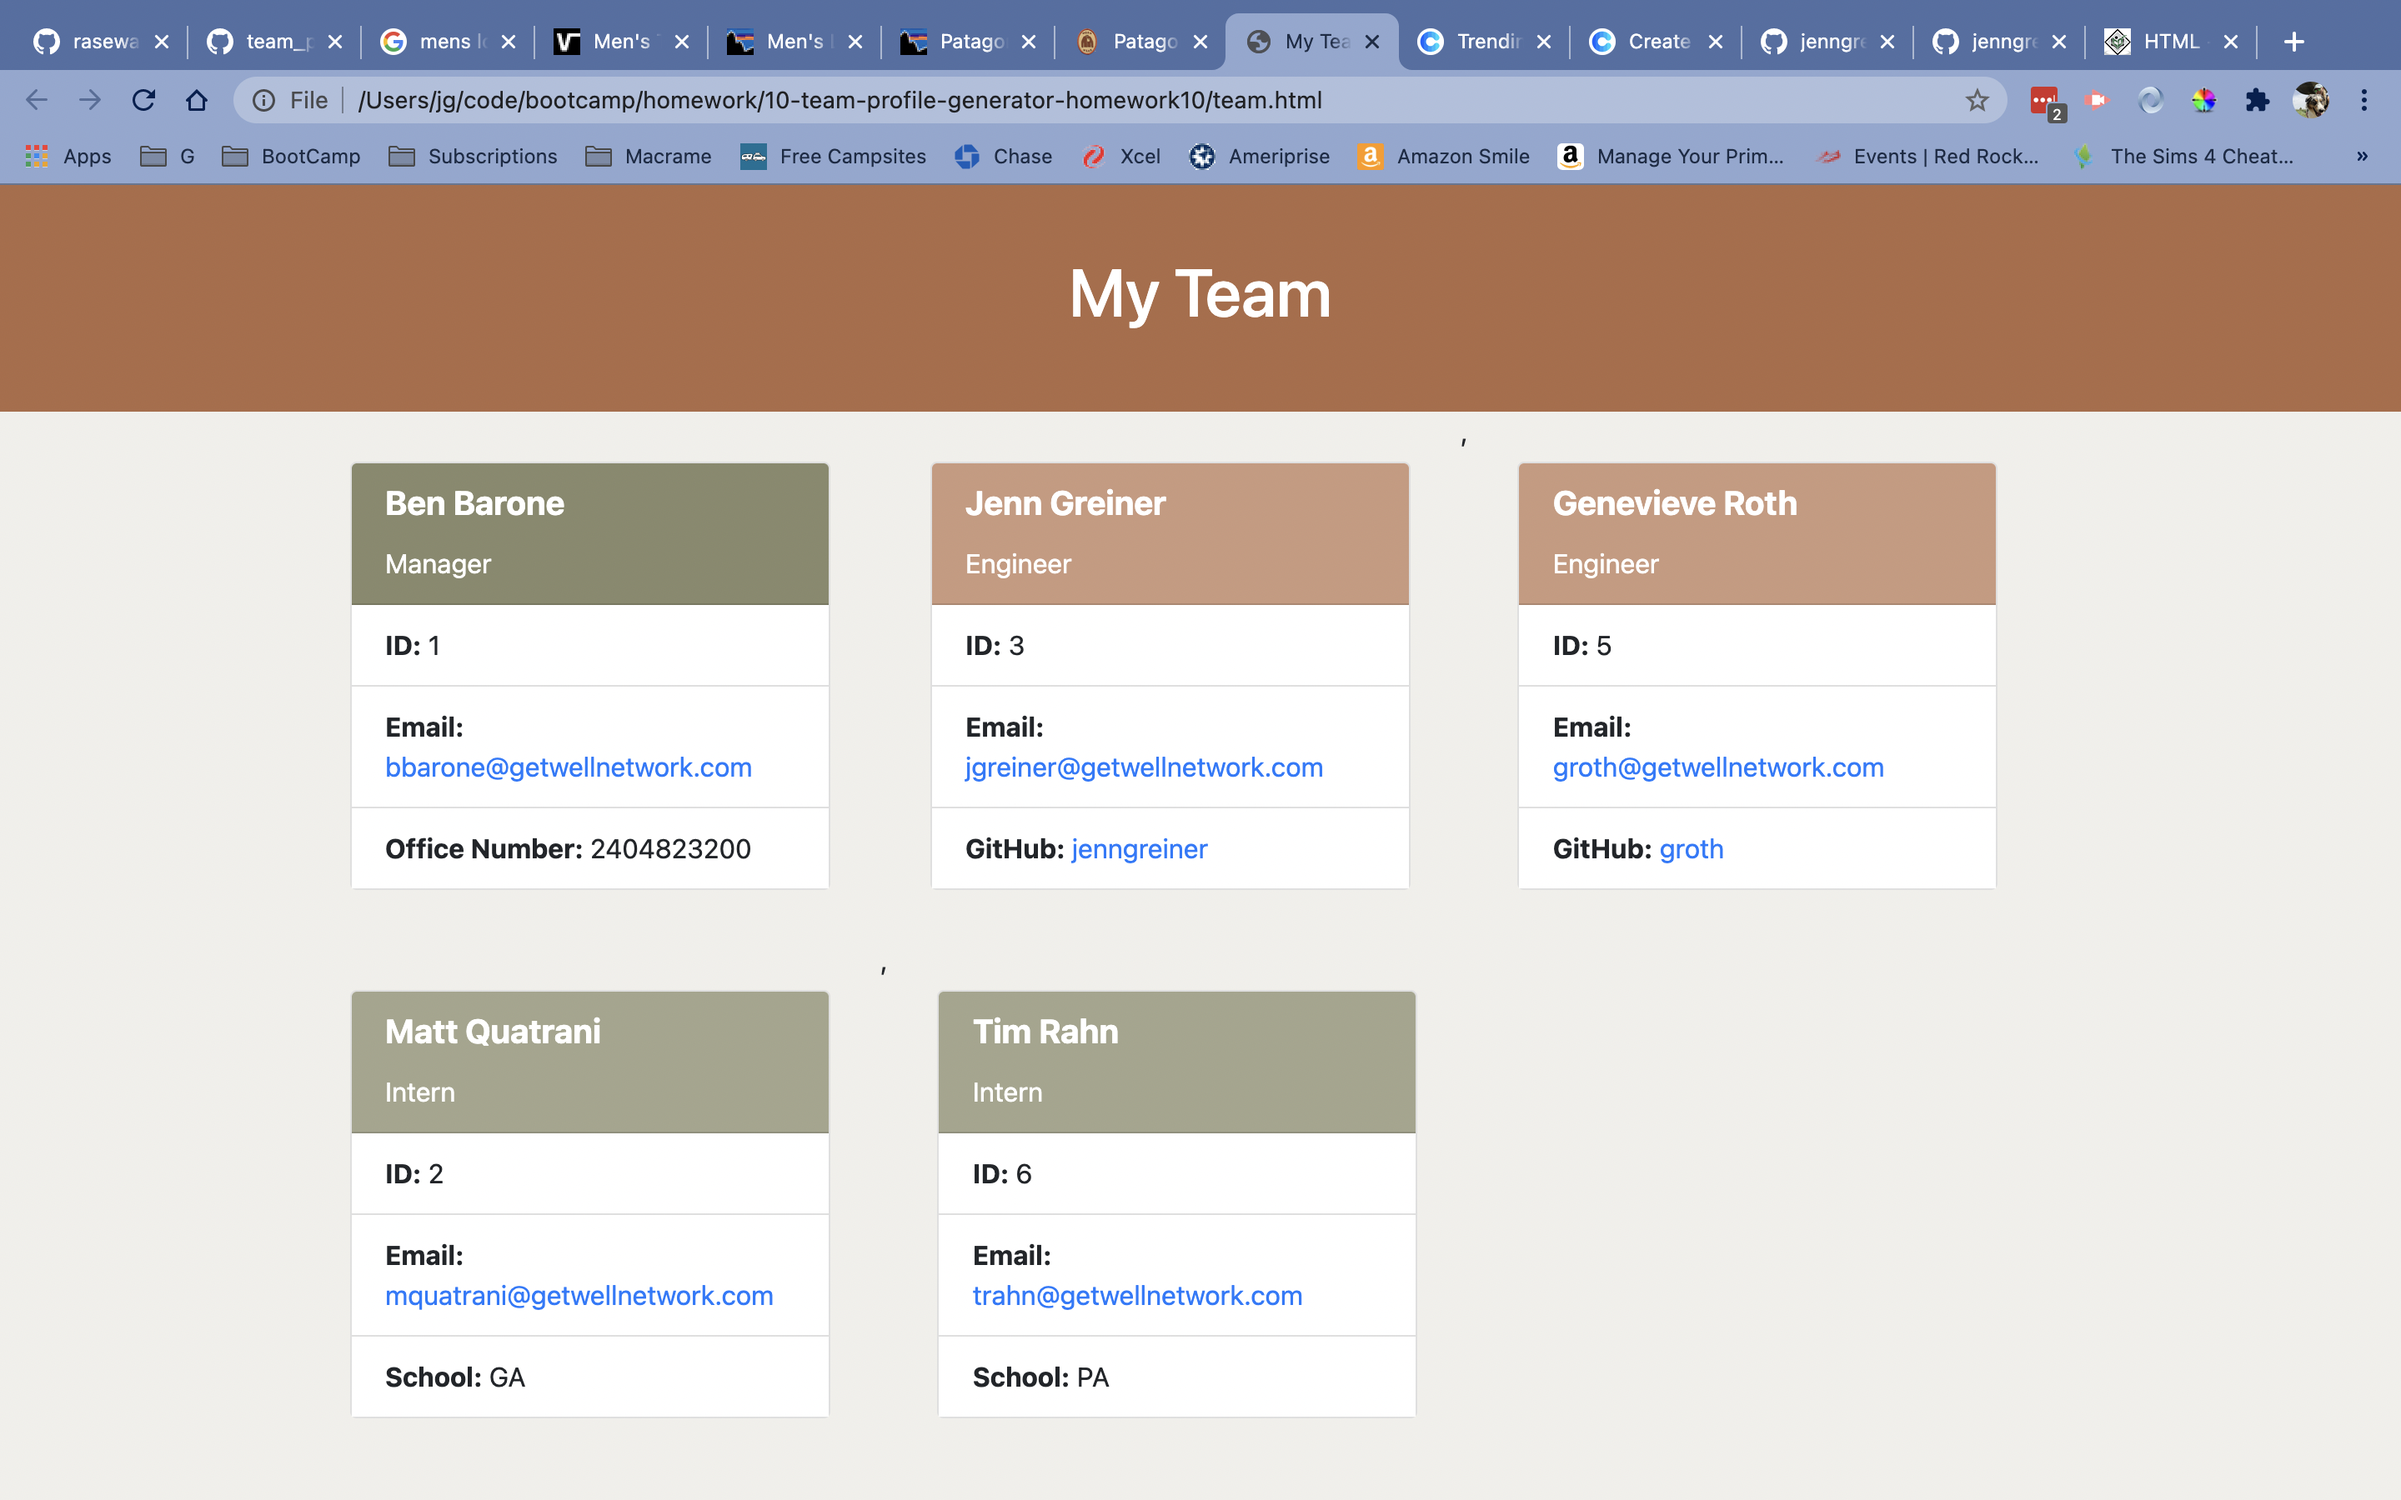
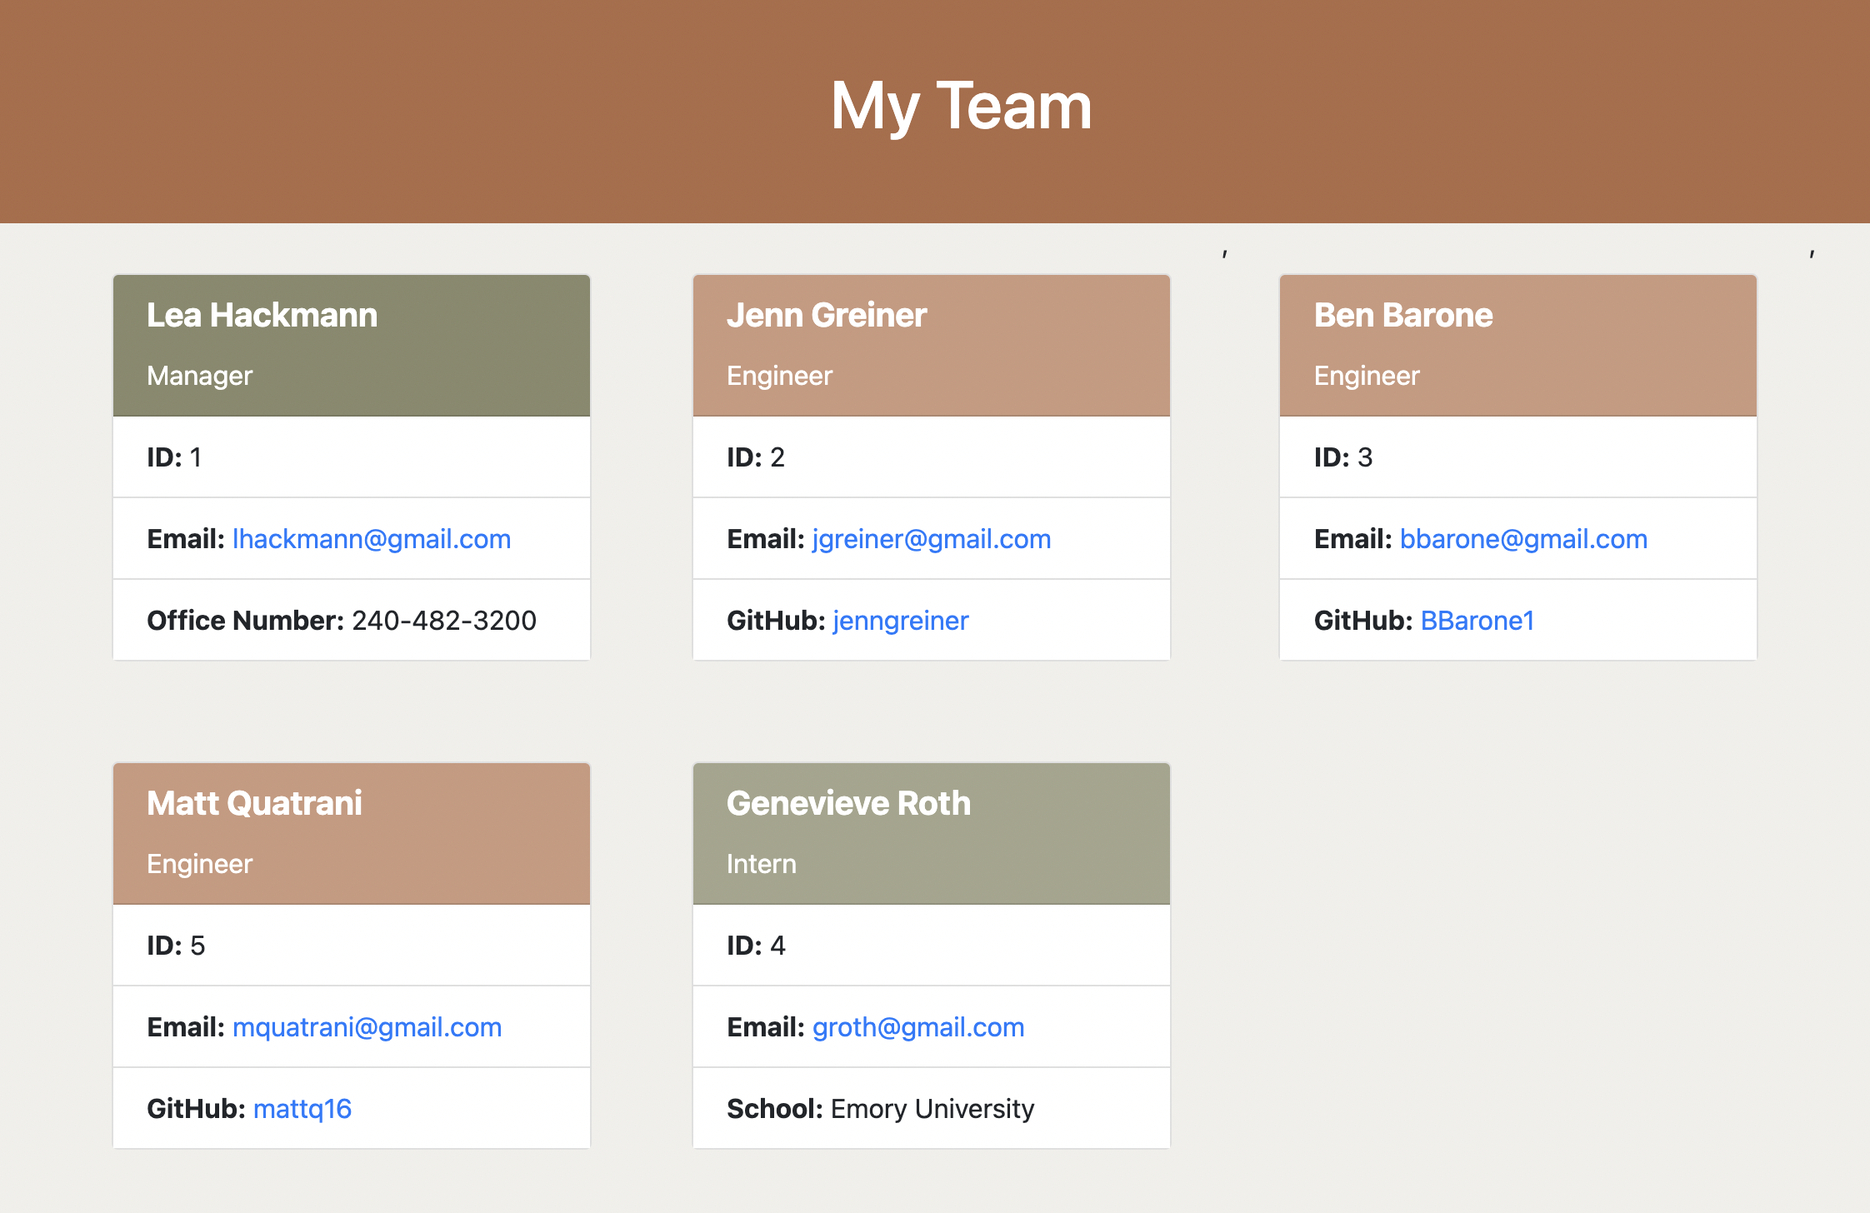
new screenshot

diff --git a/team.html b/team.html
@@ -1,84 +1,86 @@
 <!DOCTYPE html>
-<html lang="en">
-
-<head>
-    <meta charset="UTF-8">
-    <meta name="viewport" content="width=device-width, initial-scale=1.0">
-    <script src="https://cdnjs.cloudflare.com/ajax/libs/jquery/3.2.1/jquery.min.js"></script>
-    <link rel="stylesheet" href="https://maxcdn.bootstrapcdn.com/bootstrap/4.0.0/css/bootstrap.min.css">
-    <link rel="stylesheet" href="./Assets/css/style.css">
-
-    <title>My Team</title>
-</head>
-
-<body>
-    <!-- header -->
-    <header>
-        <h1>My Team</h1>
-    </header>
-    <div class="container">
-        <div class="row">
-            <div class="card" style="width: 18rem;">
-                <div class="card-header" id="manager-header">
-                    <h5 class="card-title"><b>Lea</b></h5>
-                    <p class="card-text">Manager</p>
-                </div>
-                <div>
-                    <ul class="list-group list-group-flush">
-                        <li class="list-group-item"><b>ID:</b> 123</li>
-                        <li class="list-group-item"><b>Email:</b> <a
-                                href="mailto:lhackmann@getwellnetwork.com">lhackmann@getwellnetwork.com</a></li>
-                        <li class="list-group-item"><b>Office Number:</b> 222-222-3323</li>
-                    </ul>
-                </div>
-            </div>
-            <div class="card " style="width: 18rem;">
-                <div class="card-header" id="engineer-header">
-                    <h5 class="card-title"><b>Jenn</b></h5>
-                    <p class="card-text">Engineer</p>
-                </div>
-                <div>
-                    <ul class="list-group list-group-flush">
-                        <li class="list-group-item"><b>ID:</b> 1234</li>
-                        <li class="list-group-item"><b>Email:</b> <a
-                                href="mailto:jgreiner@getwellnetwork.com">jgreiner@getwellnetwork.com</a></li>
-                        <li class="list-group-item"><b>GitHub:</b> <a
-                                href="https://github.com/jenngreiner">jenngreiner</a></li>
-                    </ul>
-                </div>
-            </div>
-            ,<div class="card " style="width: 18rem;">
-                <div class="card-header" id="engineer-header">
-                    <h5 class="card-title"><b>Robin</b></h5>
-                    <p class="card-text">Engineer</p>
-                </div>
-                <div>
-                    <ul class="list-group list-group-flush">
-                        <li class="list-group-item"><b>ID:</b> 2342</li>
-                        <li class="list-group-item"><b>Email:</b> <a
-                                href="mailto:rcavanaugh@getwellnetwork.com">rcavanaugh@getwellnetwork.com</a></li>
-                        <li class="list-group-item"><b>GitHub:</b> <a href="https://github.com/rcav">rcav</a></li>
-                    </ul>
-                </div>
-            </div>
-            <div class="card" style="width: 18rem;">
-                <div class="card-header" id="intern-header">
-                    <h5 class="card-title"><b>Matt</b></h5>
-                    <p class="card-text">Intern</p>
-                </div>
-                <div>
-                    <ul class="list-group list-group-flush">
-                        <li class="list-group-item"><b>ID:</b> 2312</li>
-                        <li class="list-group-item"><b>Email:</b> <a
-                                href="mailto:mquatrani@getwellnetwork.com">mquatrani@getwellnetwork.com</a></li>
-                        <li class="list-group-item"><b>School:</b> GA</li>
-                    </ul>
-                </div>
-            </div>
+    <html lang="en">
+    
+    <head>
+        <meta charset="UTF-8">
+        <meta name="viewport" content="width=device-width, initial-scale=1.0">
+        <script src="https://cdnjs.cloudflare.com/ajax/libs/jquery/3.2.1/jquery.min.js"></script>
+        <link rel="stylesheet" href="https://maxcdn.bootstrapcdn.com/bootstrap/4.0.0/css/bootstrap.min.css">
+        <link rel="stylesheet" href="./Assets/css/style.css">
+    
+        <title>My Team</title>
+    </head>
+    
+    <body>
+        <!-- header -->
+        <header>
+            <h1>My Team</h1>
+        </header>
+        <div class="container">
+            <div class="row">
+                <div class="card" style="width: 18rem;">
+        <div class="card-header" id="manager-header">
+        <h5 class="card-title"><b>Lea Hackmann</b></h5>
+        <p class="card-text">Manager</p>
         </div>
-    </div>
-    <script src="https://cdnjs.cloudflare.com/ajax/libs/moment.js/2.24.0/moment.min.js"></script>
-    <script src="./Assets/js/script.js"></script>
-</body>
-
-</html>
+        <div>
+        <ul class="list-group list-group-flush">
+        <li class="list-group-item"><b>ID:</b> 1</li>
+        <li class="list-group-item"><b>Email:</b> <a href="mailto:lhackmann@gmail.com">lhackmann@gmail.com</a></li>
+        <li class="list-group-item"><b>Office Number:</b> 240-482-3200</li>
+        </ul>
+        </div></div>
+        <div class="card " style="width: 18rem;">
+        <div class="card-header" id="engineer-header">
+        <h5 class="card-title"><b>Jenn Greiner</b></h5>
+        <p class="card-text">Engineer</p>
+        </div>
+        <div>
+        <ul class="list-group list-group-flush">
+        <li class="list-group-item"><b>ID:</b> 2</li>
+        <li class="list-group-item"><b>Email:</b> <a href="mailto:jgreiner@gmail.com">jgreiner@gmail.com</a></li>
+        <li class="list-group-item"><b>GitHub:</b> <a href="https://github.com/jenngreiner">jenngreiner</a></li>
+        </ul>
+        </div></div>
+        ,<div class="card " style="width: 18rem;">
+        <div class="card-header" id="engineer-header">
+        <h5 class="card-title"><b>Ben Barone</b></h5>
+        <p class="card-text">Engineer</p>
+        </div>
+        <div>
+        <ul class="list-group list-group-flush">
+        <li class="list-group-item"><b>ID:</b> 3</li>
+        <li class="list-group-item"><b>Email:</b> <a href="mailto:bbarone@gmail.com">bbarone@gmail.com</a></li>
+        <li class="list-group-item"><b>GitHub:</b> <a href="https://github.com/BBarone1">BBarone1</a></li>
+        </ul>
+        </div></div>
+        ,<div class="card " style="width: 18rem;">
+        <div class="card-header" id="engineer-header">
+        <h5 class="card-title"><b>Matt Quatrani</b></h5>
+        <p class="card-text">Engineer</p>
+        </div>
+        <div>
+        <ul class="list-group list-group-flush">
+        <li class="list-group-item"><b>ID:</b> 5</li>
+        <li class="list-group-item"><b>Email:</b> <a href="mailto:mquatrani@gmail.com">mquatrani@gmail.com</a></li>
+        <li class="list-group-item"><b>GitHub:</b> <a href="https://github.com/mattq16">mattq16</a></li>
+        </ul>
+        </div></div>
+        <div class="card" style="width: 18rem;">
+        <div class="card-header" id="intern-header">
+        <h5 class="card-title"><b>Genevieve Roth</b></h5>
+        <p class="card-text">Intern</p>
+        </div>
+        <div>
+        <ul class="list-group list-group-flush">
+        <li class="list-group-item"><b>ID:</b> 4</li>
+        <li class="list-group-item"><b>Email:</b> <a href="mailto:groth@gmail.com">groth@gmail.com</a></li>
+        <li class="list-group-item"><b>School:</b> Emory University</li>
+        </ul>
+        </div></div>
+            </div >
+        </div >
+        <script src="https://cdnjs.cloudflare.com/ajax/libs/moment.js/2.24.0/moment.min.js"></script>
+        <script src="./Assets/js/script.js"></script>
+    </body>
+    </html> 
